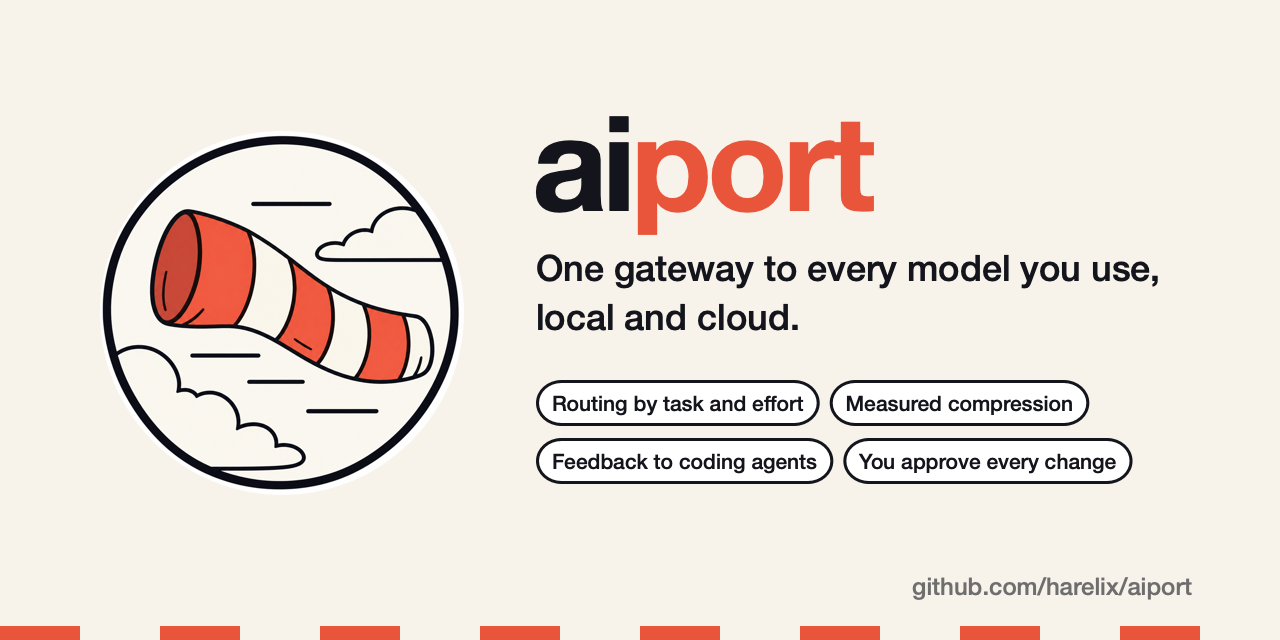
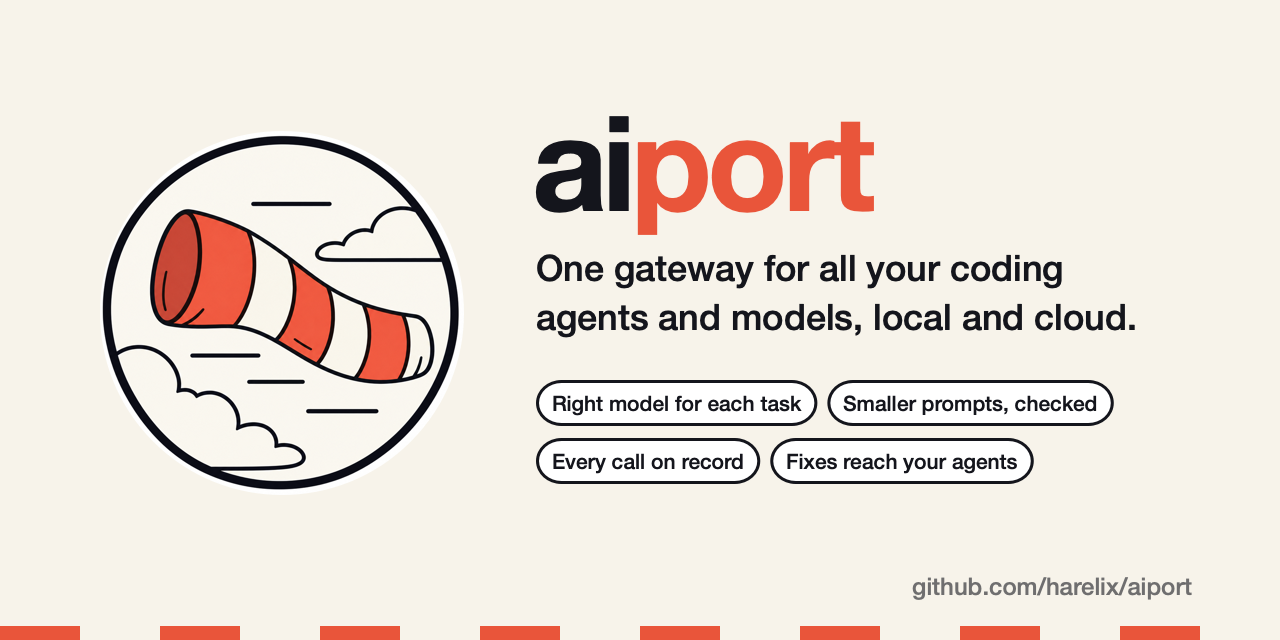
Shorter README pitch and card: one gateway for all your coding agents and models, with a six-line feature list

Changed region(s): [[0.4375, 0.5938, 0.9062, 0.7812], [0.4062, 0.4062, 0.9062, 0.5312]]

diff --git a/README.md b/README.md
@@ -4,8 +4,8 @@
 
 <h1>aiport</h1>
 
-<p><strong>One gateway to every model you use, local and cloud.</strong><br>
-aiport picks the model by task and effort, compresses context and measures what that costs in quality, records every call, and tells your coding agents what to fix, with you approving each change.</p>
+<p><strong>One gateway for all your coding agents and models, local and cloud.</strong><br>
+The right model for each task, smaller prompts with quality checked, every call on record, and failures sent back to the agent that can fix them.</p>
 
 <p>
   <a href="https://github.com/harelix/aiport/actions/workflows/ci.yml"><img alt="CI" src="https://github.com/harelix/aiport/actions/workflows/ci.yml/badge.svg"></a>
@@ -28,15 +28,12 @@ aiport picks the model by task and effort, compresses context and measures what 
 
 ## Why aiport
 
-| | |
-|---|---|
-| **Keys stay in aiport** | Each application pairs for its own local token, approved by you. aiport adds the real provider key on the way out. |
-| **Native forwarding** | Chat Completions, Responses and Messages pass through byte for byte, in the provider's own format. Nothing is translated, so nothing is lost. |
-| **Adapts, with your approval** | When an application keeps failing, aiport opens an Issue with the evidence and a fix on each side: a Change you approve in one click, and instructions for the application's coding agent. |
-| **Applications know what they can use** | `GET /v1/models` lists each application's Levels, task names and models (its Catalog), and an `X-Aiport-Catalog` header tells it when you change them. Remove any Connection: aiport re-points what used it as one revertable Change and tells every application it affects. |
-| **Name the need, not the provider** | Applications send a Level (`fast`, `balanced`, `best`) or a task name, and say how hard a call is with `X-Aiport-Effort`; you map each to a Connection and model in the dashboard, and the Routing map shows where every name goes. |
-| **Smaller context, measured** | Applications can ask aiport to compress a request. aiport measures whether the answers get worse, so you keep the savings only where quality holds. |
-| **Local and private** | Loopback only, cross-site requests refused, and only request metadata is kept: never prompts or responses. |
+- **Every model behind one address.** Ollama, llama.cpp, Bedrock, Anthropic, OpenAI and Meta. Your keys stay in aiport, and each app and agent gets its own token.
+- **The right model for each task.** Apps ask for fast, balanced or best, or name a task and an effort. You choose which model answers, and thumbs up or down from your users turn into routing suggestions.
+- **Smaller prompts, quality checked.** Apps can ask aiport to compress a request, and aiport measures whether the answers get worse.
+- **Every call on record.** See which app called which model, at what effort, how long it took and why it failed. Prompts and responses are never stored.
+- **Failures reach the agent that can fix them.** When an app keeps failing, aiport proposes a fix for you to approve and sends instructions to the app's coding agent.
+- **Nothing lost in translation.** Requests pass through in each provider's own format, and aiport listens only on your machine.
 
 ## Who it is for
 
